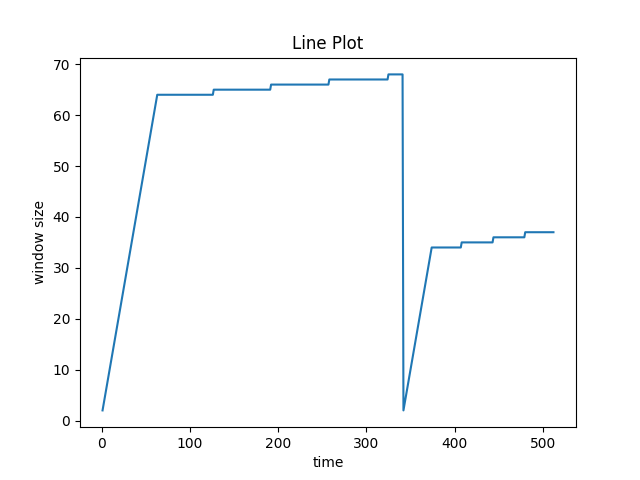
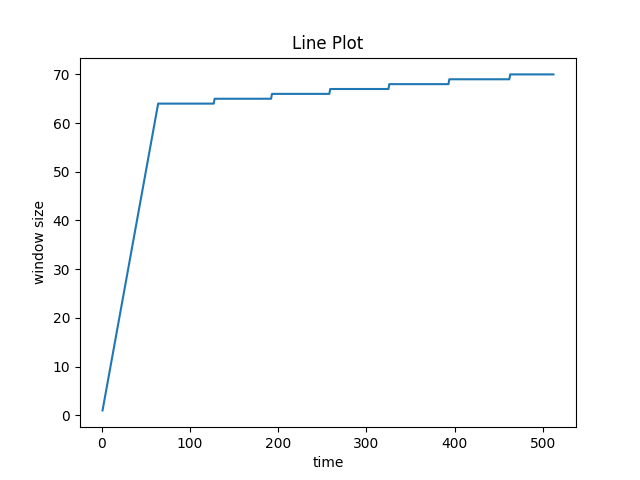
Fast recovery version, some bug fixed.

diff --git a/src/peer.py b/src/peer.py
@@ -56,8 +56,8 @@ last_byte_acked = dict()
 timeout = dict()
 Estimated_RTT = dict()
 Dev_RTT = dict()
-alpha = dict()
-beta = dict()
+alpha = 0.125
+beta = 0.25
 dupACKcount = dict()
 byte_to_receive = dict()
 byte_has_received = dict()
@@ -224,8 +224,8 @@ def process_inbound_udp(sock):
         timeout[from_addr] = 5
         Estimated_RTT[from_addr] = 4
         Dev_RTT[from_addr] = 0.25
-        alpha[from_addr] = 0.125
-        beta[from_addr] = 0.25
+        # alpha[from_addr] = 0.125
+        # beta[from_addr] = 0.25
         dupACKcount[from_addr] = 0
         cwnd[from_addr] = 1
         ssthresh[from_addr] = 64
@@ -237,66 +237,91 @@ def process_inbound_udp(sock):
     elif Type == 3:
         # receiver
         current_chunkhash = bytes.hex(get_dict_key(get_chunk_dict, from_addr))
-        seq_num = socket.ntohl(Seq)
-        to_ack_num = byte_to_receive[from_addr] - 1
-
-        # buffer[from_addr][seq_num] = data
-        # print(buffer)
-
-        if seq_num == byte_to_receive[from_addr]:
-            ex_received_chunk[current_chunkhash] += data
-            byte_to_receive[from_addr] += 1
-            to_ack_num = byte_to_receive[from_addr] - 1
-            if len(byte_has_received[from_addr]) != 0:
-                for record in byte_has_received[from_addr]:
-                    if byte_to_receive[from_addr] == record:
-                        byte_has_received[from_addr].remove(record)
-                        buffer_now = buffer[from_addr]
-                        data_buffer = buffer_now[record]
-                        ex_received_chunk[current_chunkhash] += data_buffer
-                        print("buffer")
-                        buffer_now[record] = bytes()
-                        # data_buffer.pop(record)
-                        byte_to_receive[from_addr] += 1
-                        to_ack_num = byte_to_receive[from_addr] - 1
-                    else:
-                        break
-        elif seq_num > byte_to_receive[from_addr]:
-            to_ack_num = byte_to_receive[from_addr] - 1
-
-            buffer[from_addr][seq_num] = data
-            byte_has_received[from_addr].append(seq_num)
-
-        # find the corresponding chunkhash, then add.
-        # print("byte2re ")
-        print(byte_to_receive[from_addr])
-        # send back ACK
-        ack_pkt = struct.pack("HBBHHII", socket.htons(52305), TEAM_NUM, 4, socket.htons(HEADER_LEN),
-                              socket.htons(HEADER_LEN), socket.htonl(0), socket.htonl(to_ack_num))
-        sock.sendto(ack_pkt, from_addr)
-
         # see if finished
+        if len(ex_received_chunk[current_chunkhash]) < CHUNK_DATA_SIZE:
+            seq_num = socket.ntohl(Seq)
+            to_ack_num = byte_to_receive[from_addr] - 1
+
+            # buffer[from_addr][seq_num] = data
+            # print(buffer)
+
+            if seq_num == byte_to_receive[from_addr]:
+                ex_received_chunk[current_chunkhash] += data
+                byte_to_receive[from_addr] += 1
+                to_ack_num = byte_to_receive[from_addr] - 1
+
+                buffer_now = buffer[from_addr]
+                if seq_num in buffer_now:
+                    buffer_now[seq_num] = bytes()
+
+                if len(byte_has_received[from_addr]) != 0:
+                    title = min(byte_has_received[from_addr]) - 1
+                    while True:
+                        title += 1
+                        if title == byte_to_receive[from_addr] and title in byte_has_received[from_addr]:
+                            byte_has_received[from_addr].remove(title)
+                            buffer_now = buffer[from_addr]
+                            data_buffer = buffer_now[title]
+                            ex_received_chunk[current_chunkhash] += data_buffer
+                            print("the data stored in buffer has been added!")
+                            buffer_now[title] = bytes()
+                            byte_to_receive[from_addr] += 1
+                            to_ack_num = byte_to_receive[from_addr] - 1
+                        else:
+                            break
+                # for record in byte_has_received[from_addr]:
+                #     print(f'{byte_to_receive[from_addr]}vs{record}')
+                #     if byte_to_receive[from_addr] == record:
+                #         byte_has_received[from_addr].remove(record)
+                #         buffer_now = buffer[from_addr]
+                #         data_buffer = buffer_now[record]
+                #         ex_received_chunk[current_chunkhash] += data_buffer
+                #         print("the data stored in buffer has been added!")
+                #         buffer_now[record] = bytes()
+                #         # data_buffer.pop(record)
+                #         byte_to_receive[from_addr] += 1
+                #         to_ack_num = byte_to_receive[from_addr] - 1
+                #     else:
+                #         break
+            elif seq_num > byte_to_receive[from_addr]:
+                to_ack_num = byte_to_receive[from_addr] - 1
+
+                buffer[from_addr][seq_num] = data
+                byte_has_received[from_addr].append(seq_num)
+
+            # find the corresponding chunkhash, then add.
+            # print("byte2re ")
+            print(f'The receiver wants to get package {byte_to_receive[from_addr]}')
+            print(f'the buffer in receiver stores {byte_has_received[from_addr]} pkts')
+            # send back ACK
+            ack_pkt = struct.pack("HBBHHII", socket.htons(52305), TEAM_NUM, 4, socket.htons(HEADER_LEN),
+                                  socket.htons(HEADER_LEN), socket.htonl(0), socket.htonl(to_ack_num))
+            sock.sendto(ack_pkt, from_addr)
+            print('')
+
         if len(ex_received_chunk[current_chunkhash]) == CHUNK_DATA_SIZE:
+            # print(f'{len(ex_received_chunk[current_chunkhash])} vs {CHUNK_DATA_SIZE}')
             del byte_to_receive[from_addr]
             del byte_has_received[from_addr]
             HAS_RECEIVED = HAS_RECEIVED + 1
             # finished downloading this chunkdata!
             # add to this peer's has-chunk:
             config.haschunks[current_chunkhash] = ex_received_chunk[current_chunkhash]
+        print(f'{len(ex_received_chunk[current_chunkhash])} vs {CHUNK_DATA_SIZE}')
         if HAS_RECEIVED == len(ex_downloading_chunkhash):
             # When all the chunkhash have been downloaded
             # dump your received chunk to file in dict form using pickle
-            cur_time = time.time()
-            # print(cur_time - START_TIME)
             with open(ex_output_file, "wb") as wf:
                 pickle.dump(ex_received_chunk, wf)
             # you need to print "GOT" when finished downloading all chunks in a DOWNLOAD file
             print(f"GOT {ex_output_file}")
 
     elif Type == 4:
+        print(f'the state of the sender is {state[from_addr]}')
+
         # received an ACK pkt
         # Note that in Type 4, because there is only one file now, so we just use ex_sending_chunkhash is OK.
-
+        cwnd_list[from_addr].append(cwnd[from_addr])
         ack_num = socket.ntohl(Ack)
         if ack_num * MAX_PAYLOAD >= CHUNK_DATA_SIZE:
             del send_time_dict[from_addr]
@@ -306,13 +331,15 @@ def process_inbound_udp(sock):
             del timeout[from_addr]
             del Estimated_RTT[from_addr]
             del Dev_RTT[from_addr]
-            del alpha[from_addr]
-            del beta[from_addr]
+            # del alpha[from_addr]
+            # del beta[from_addr]
             del dupACKcount[from_addr]
             del cwnd[from_addr]
             del ssthresh[from_addr]
             del conges_ct[from_addr]
-
+            print(f'the sender received ack {ack_num}')
+            # finished
+            print(f"finished sending {ex_sending_chunkhash}")
             it_num = len(cwnd_list[from_addr])
             x = list(range(1, it_num + 1))
             y = cwnd_list[from_addr]
@@ -325,8 +352,6 @@ def process_inbound_udp(sock):
 
             plt.savefig('line_plot.png')
 
-            # finished
-            print(f"finished sending {ex_sending_chunkhash}")
         else:
             # 这个包当时发过去时的seq
             seq_num = ack_num
@@ -335,9 +360,8 @@ def process_inbound_udp(sock):
                 send_time = send_time_dict[from_addr][seq_num]
                 del send_time_dict[from_addr][seq_num]
                 SampleRTT = time.time() - send_time
-                Estimated_RTT[from_addr] = (1 - alpha[from_addr]) * Estimated_RTT[from_addr] + alpha[
-                    from_addr] * SampleRTT
-                Dev_RTT[from_addr] = (1 - beta[from_addr]) * Dev_RTT[from_addr] + beta[from_addr] * abs(
+                Estimated_RTT[from_addr] = (1 - alpha) * Estimated_RTT[from_addr] + alpha * SampleRTT
+                Dev_RTT[from_addr] = (1 - beta) * Dev_RTT[from_addr] + beta * abs(
                     SampleRTT - Estimated_RTT[from_addr])
                 timeout[from_addr] = Estimated_RTT[from_addr] + 4 * Dev_RTT[from_addr]
                 # timeout[from_addr] = 1
@@ -355,52 +379,56 @@ def process_inbound_udp(sock):
                     if conges_ct[from_addr] == cwnd[from_addr]:
                         conges_ct[from_addr] = 0
                         cwnd[from_addr] += 1
-            # elif seq_num > last_byte_sent[from_addr]:
-            #     last_byte_acked[from_addr] = seq_num
-            #
-            #     if state[from_addr] == 0:
-            #         dupACKcount[from_addr] = 0
-            #         cwnd[from_addr] += 1
-            #         if cwnd[from_addr] >= ssthresh[from_addr]:
-            #             state[from_addr] = 1
-            #     elif state[from_addr] == 1:
-            #         dupACKcount[from_addr] = 0
-            #         conges_ct[from_addr] += 1
-            #         if conges_ct[from_addr] == cwnd[from_addr]:
-            #             conges_ct[from_addr] = 0
-            #             cwnd[from_addr] += 1
+                elif state[from_addr] == 2:
+                    state[from_addr] = 1
+                    dupACKcount[from_addr] = 0
+                    cwnd[from_addr] = ssthresh[from_addr]
+
+
             elif seq_num == last_byte_acked[from_addr]:
 
-                # 重复ack了
-                dupACKcount[from_addr] += 1
+                # duplicated ACK
+                if state[from_addr] == 0 or state[from_addr] == 1:
+                    dupACKcount[from_addr] += 1
+                elif state[from_addr] == 2:
+                    cwnd[from_addr] = cwnd[from_addr] + 1
                 # 三次重传
-                if dupACKcount[from_addr] == 3:
-                    print("retransmission!!!!!!!!!!!!!!!!!!!!!!!!!!!!!!!!!")
-                    dupACKcount[from_addr] = 0
+                if state[from_addr] != 2:
+                    if dupACKcount[from_addr] == 3:
+                        print("retransmission!!!!!!!!!!!!!!!!!!!!!!!!!!!!!!!!!")
 
-                    # print("re index")
-                    if state[from_addr] == 1:
-                        state[from_addr] = 0
-                        conges_ct[from_addr] = 0
+                        # retransmission
+                        if state[from_addr] == 0:
+                            state[from_addr] = 2
+                            ssthresh[from_addr] = max(math.floor(cwnd[from_addr] / 2), 2)
+                            cwnd[from_addr] = ssthresh[from_addr] + 3
+                        elif state[from_addr] == 1:
+                            state[from_addr] = 2
+                            ssthresh[from_addr] = max(math.floor(cwnd[from_addr] / 2), 2)
+                            cwnd[from_addr] = ssthresh[from_addr] + 3
+                            conges_ct[from_addr] = 0
 
-                    ssthresh[from_addr] = max(math.floor(cwnd[from_addr] / 2), 2)
-                    cwnd[from_addr] = 1
+                        dupACKcount[from_addr] += 1
+                        # 加一个就是4了
+                        retransmission_index = last_byte_acked[from_addr] + 1
 
-                    retransmission_index = last_byte_acked[from_addr] + 1
-                    # print(retransmission_index)
-                    left = (retransmission_index - 1) * MAX_PAYLOAD
-                    right = min((retransmission_index) * MAX_PAYLOAD, CHUNK_DATA_SIZE)
-                    next_data = config.haschunks[ex_sending_chunkhash][left: right]
-                    # send next data
-                    data_header = struct.pack("HBBHHII", socket.htons(52305), TEAM_NUM, 3, socket.htons(HEADER_LEN),
-                                              socket.htons(HEADER_LEN + len(next_data)),
-                                              socket.htonl(retransmission_index),
-                                              socket.htonl(0))
-                    sock.sendto(data_header + next_data, from_addr)
-                    send_time_dict[from_addr][retransmission_index] = time.time()
+                        left = (retransmission_index - 1) * MAX_PAYLOAD
+                        right = min((retransmission_index) * MAX_PAYLOAD, CHUNK_DATA_SIZE)
+                        next_data = config.haschunks[ex_sending_chunkhash][left: right]
+                        # send next data
+                        data_header = struct.pack("HBBHHII", socket.htons(52305), TEAM_NUM, 3, socket.htons(HEADER_LEN),
+                                                  socket.htons(HEADER_LEN + len(next_data)),
+                                                  socket.htonl(retransmission_index),
+                                                  socket.htonl(0))
+                        sock.sendto(data_header + next_data, from_addr)
+                        # send_time_dict[from_addr][retransmission_index] = time.time()
+                        print(f'The sender sends pkt{retransmission_index} in retransmission')
 
-            cwnd_list[from_addr].append(cwnd[from_addr])
-            print(last_byte_acked[from_addr])
+            print(f'The sender has already received {last_byte_acked[from_addr]} packages')
+            print(f'the sender received ack {seq_num}')
+            print(f'the window size now is {cwnd[from_addr]}')
+            print(f'the ssthresh is {ssthresh[from_addr]}')
+            print(f'the timeout is set to{timeout[from_addr]}')
 
             num_to_send = max(0, last_byte_acked[from_addr] + cwnd[from_addr] - last_byte_sent[from_addr])
             new_seq_num = last_byte_sent[from_addr]
@@ -419,10 +447,11 @@ def process_inbound_udp(sock):
                                                   socket.htonl(0))
                         sock.sendto(data_header + next_data, from_addr)
                         send_time_dict[from_addr][new_seq_num] = time.time()
+                        print(f'The sender sends pkt {new_seq_num}')
                     else:
-
                         break
 
+            print('')
     elif Type == 5:
         # received a DENIED pkt
         pass
@@ -455,12 +484,20 @@ def peer_run(config):
                 for seq, time_bf in value.items():
                     if time.time() - time_bf > timeout[addr]:
                         print("timeout!")
+                        SampleRTT = time.time() - time_bf
+                        Estimated_RTT[addr] = (1 - alpha) * Estimated_RTT[addr] + alpha * SampleRTT
+                        Dev_RTT[addr] = (1 - beta) * Dev_RTT[addr] + beta * abs(SampleRTT - Estimated_RTT[addr])
+                        timeout[addr] = Estimated_RTT[addr] + 4 * Dev_RTT[addr]
+
                         if state[addr] == 1:
                             state[addr] = 0
                             conges_ct[addr] = 0
+                        if state[addr] == 2:
+                            state[addr] = 0
 
                         ssthresh[addr] = max(math.floor(cwnd[addr] / 2), 2)
                         cwnd[addr] = 1
+                        dupACKcount[addr] = 0
 
                         left = (seq - 1) * MAX_PAYLOAD
                         right = min((seq) * MAX_PAYLOAD, CHUNK_DATA_SIZE)
@@ -470,7 +507,7 @@ def peer_run(config):
                                                   socket.htonl(seq),
                                                   socket.htonl(0))
                         sock.sendto(data_header + next_data, addr)
-                        send_time_dict[addr][seq] = time.time()
+                        # send_time_dict[addr][seq] = time.time()
 
             if len(read_ready) > 0:
                 if sock in read_ready:

diff --git a/test/basic_transfer_test.py b/test/basic_transfer_test.py
@@ -34,7 +34,7 @@ DOWNLOAD test/tmp2/download_target.chunkhash test/tmp2/download_result.fragment
 @pytest.fixture(scope='module')
 def drop_session():
     success = False
-    time_max = 50
+    time_max = 10
 
     if os.path.exists("test/tmp2/download_result.fragment"):
         os.remove("test/tmp2/download_result.fragment")
